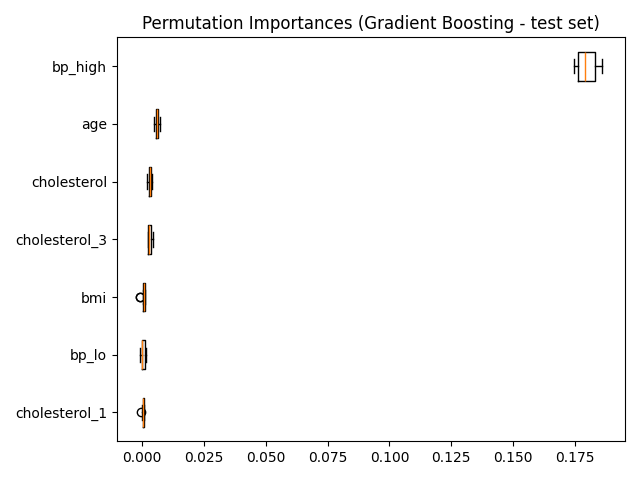
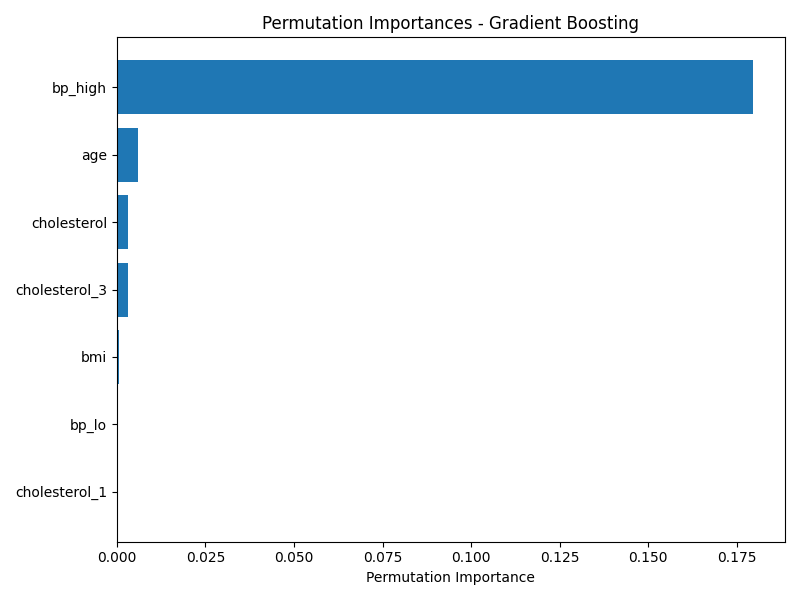
changed the box plots into bar graphs in the permutation importance analysis

diff --git a/src/models/feature_importance_analysis.py b/src/models/feature_importance_analysis.py
@@ -54,17 +54,18 @@ class FeatureImportanceAnalysis:
     def permutation_importance_analysis(self):
         models = self.load_models()
         for model_name, model in models.items():
-            # permutation importance analysis
+            # Permutation importance analysis
             result = permutation_importance(model["predict"], self.X_test, self.y_test, n_repeats=10, random_state=42)
             sorted_idx = result.importances_mean.argsort()
 
-            # Plot permutation importance
-            fig, ax = plt.subplots()
-            ax.boxplot(result.importances[sorted_idx].T, vert=False,
-                       labels=np.array(model["feature_names"])[sorted_idx])
-            ax.set_title(f"Permutation Importances ({model_name} - test set)")
+            # Plot permutation importance as bar graph
+            plt.figure(figsize=(8, 6))
+            plt.barh(np.array(model["feature_names"])[sorted_idx], result.importances_mean[sorted_idx])
+            plt.xlabel('Permutation Importance')
+            plt.title(f'Permutation Importances - {model_name}')
             plt.tight_layout()
             plt.savefig(f'{model_name}_permutation_importance.png')
             plt.show()
             plt.close()
+
 
